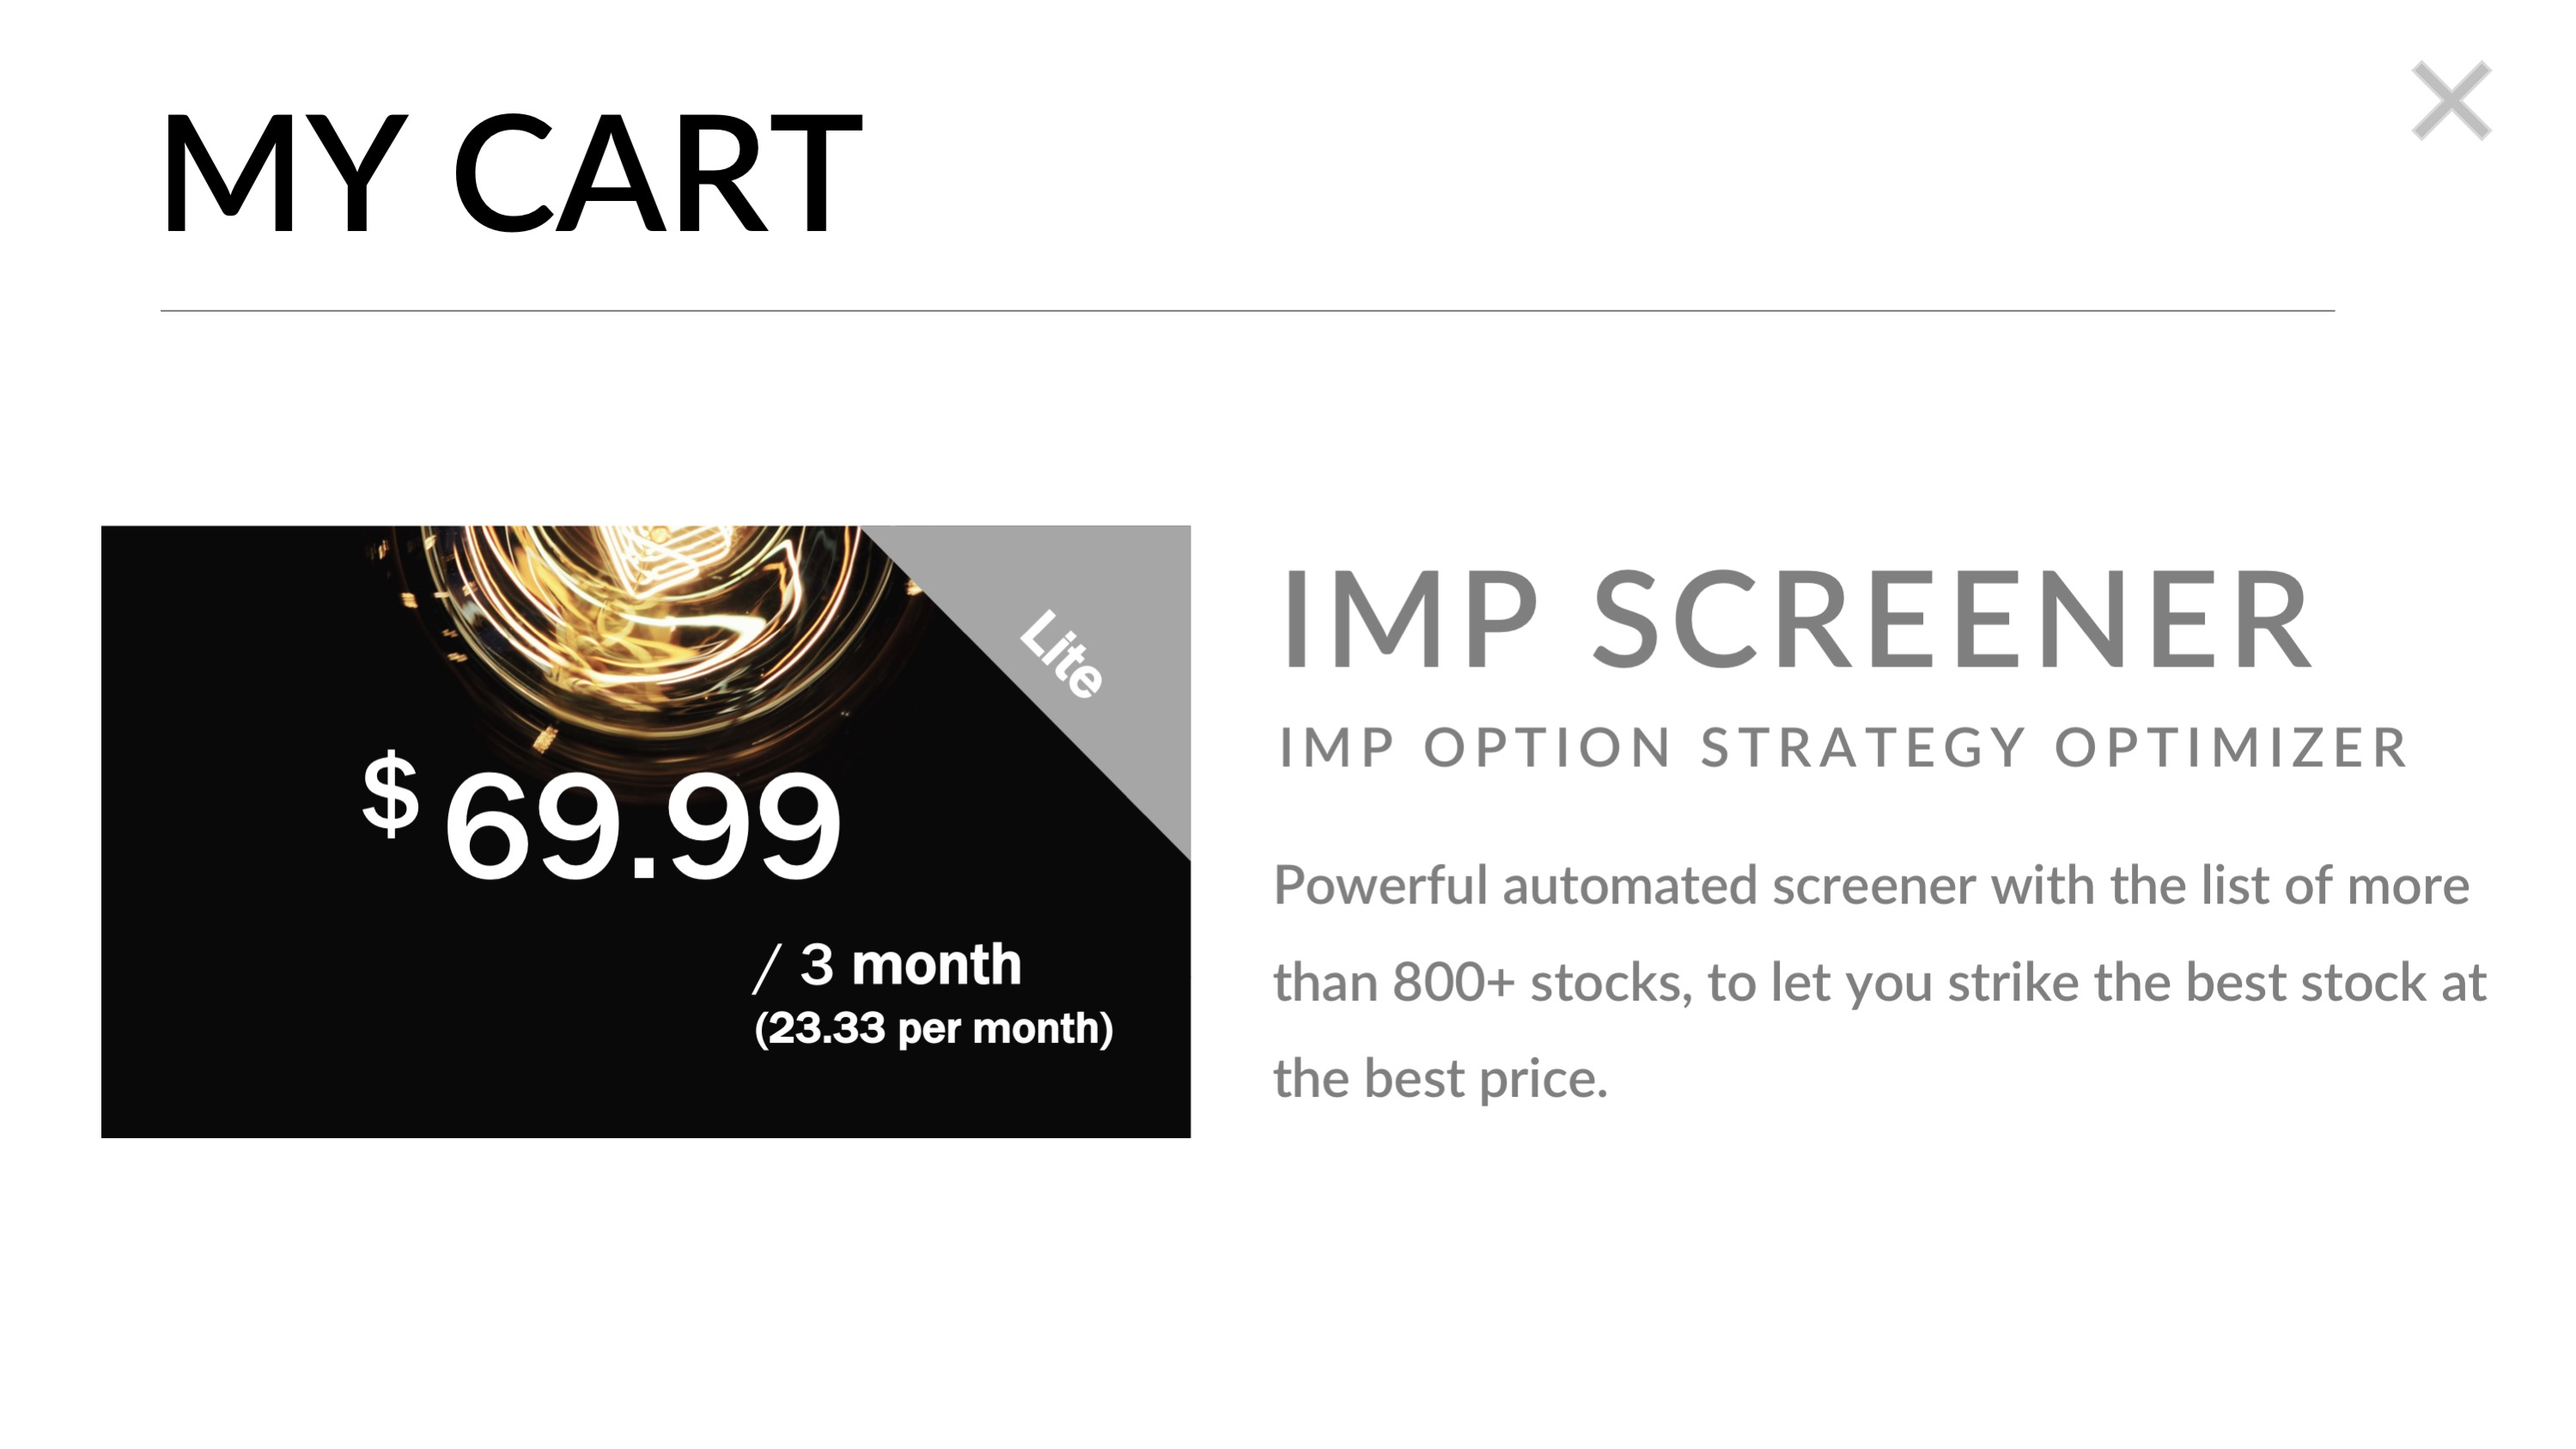
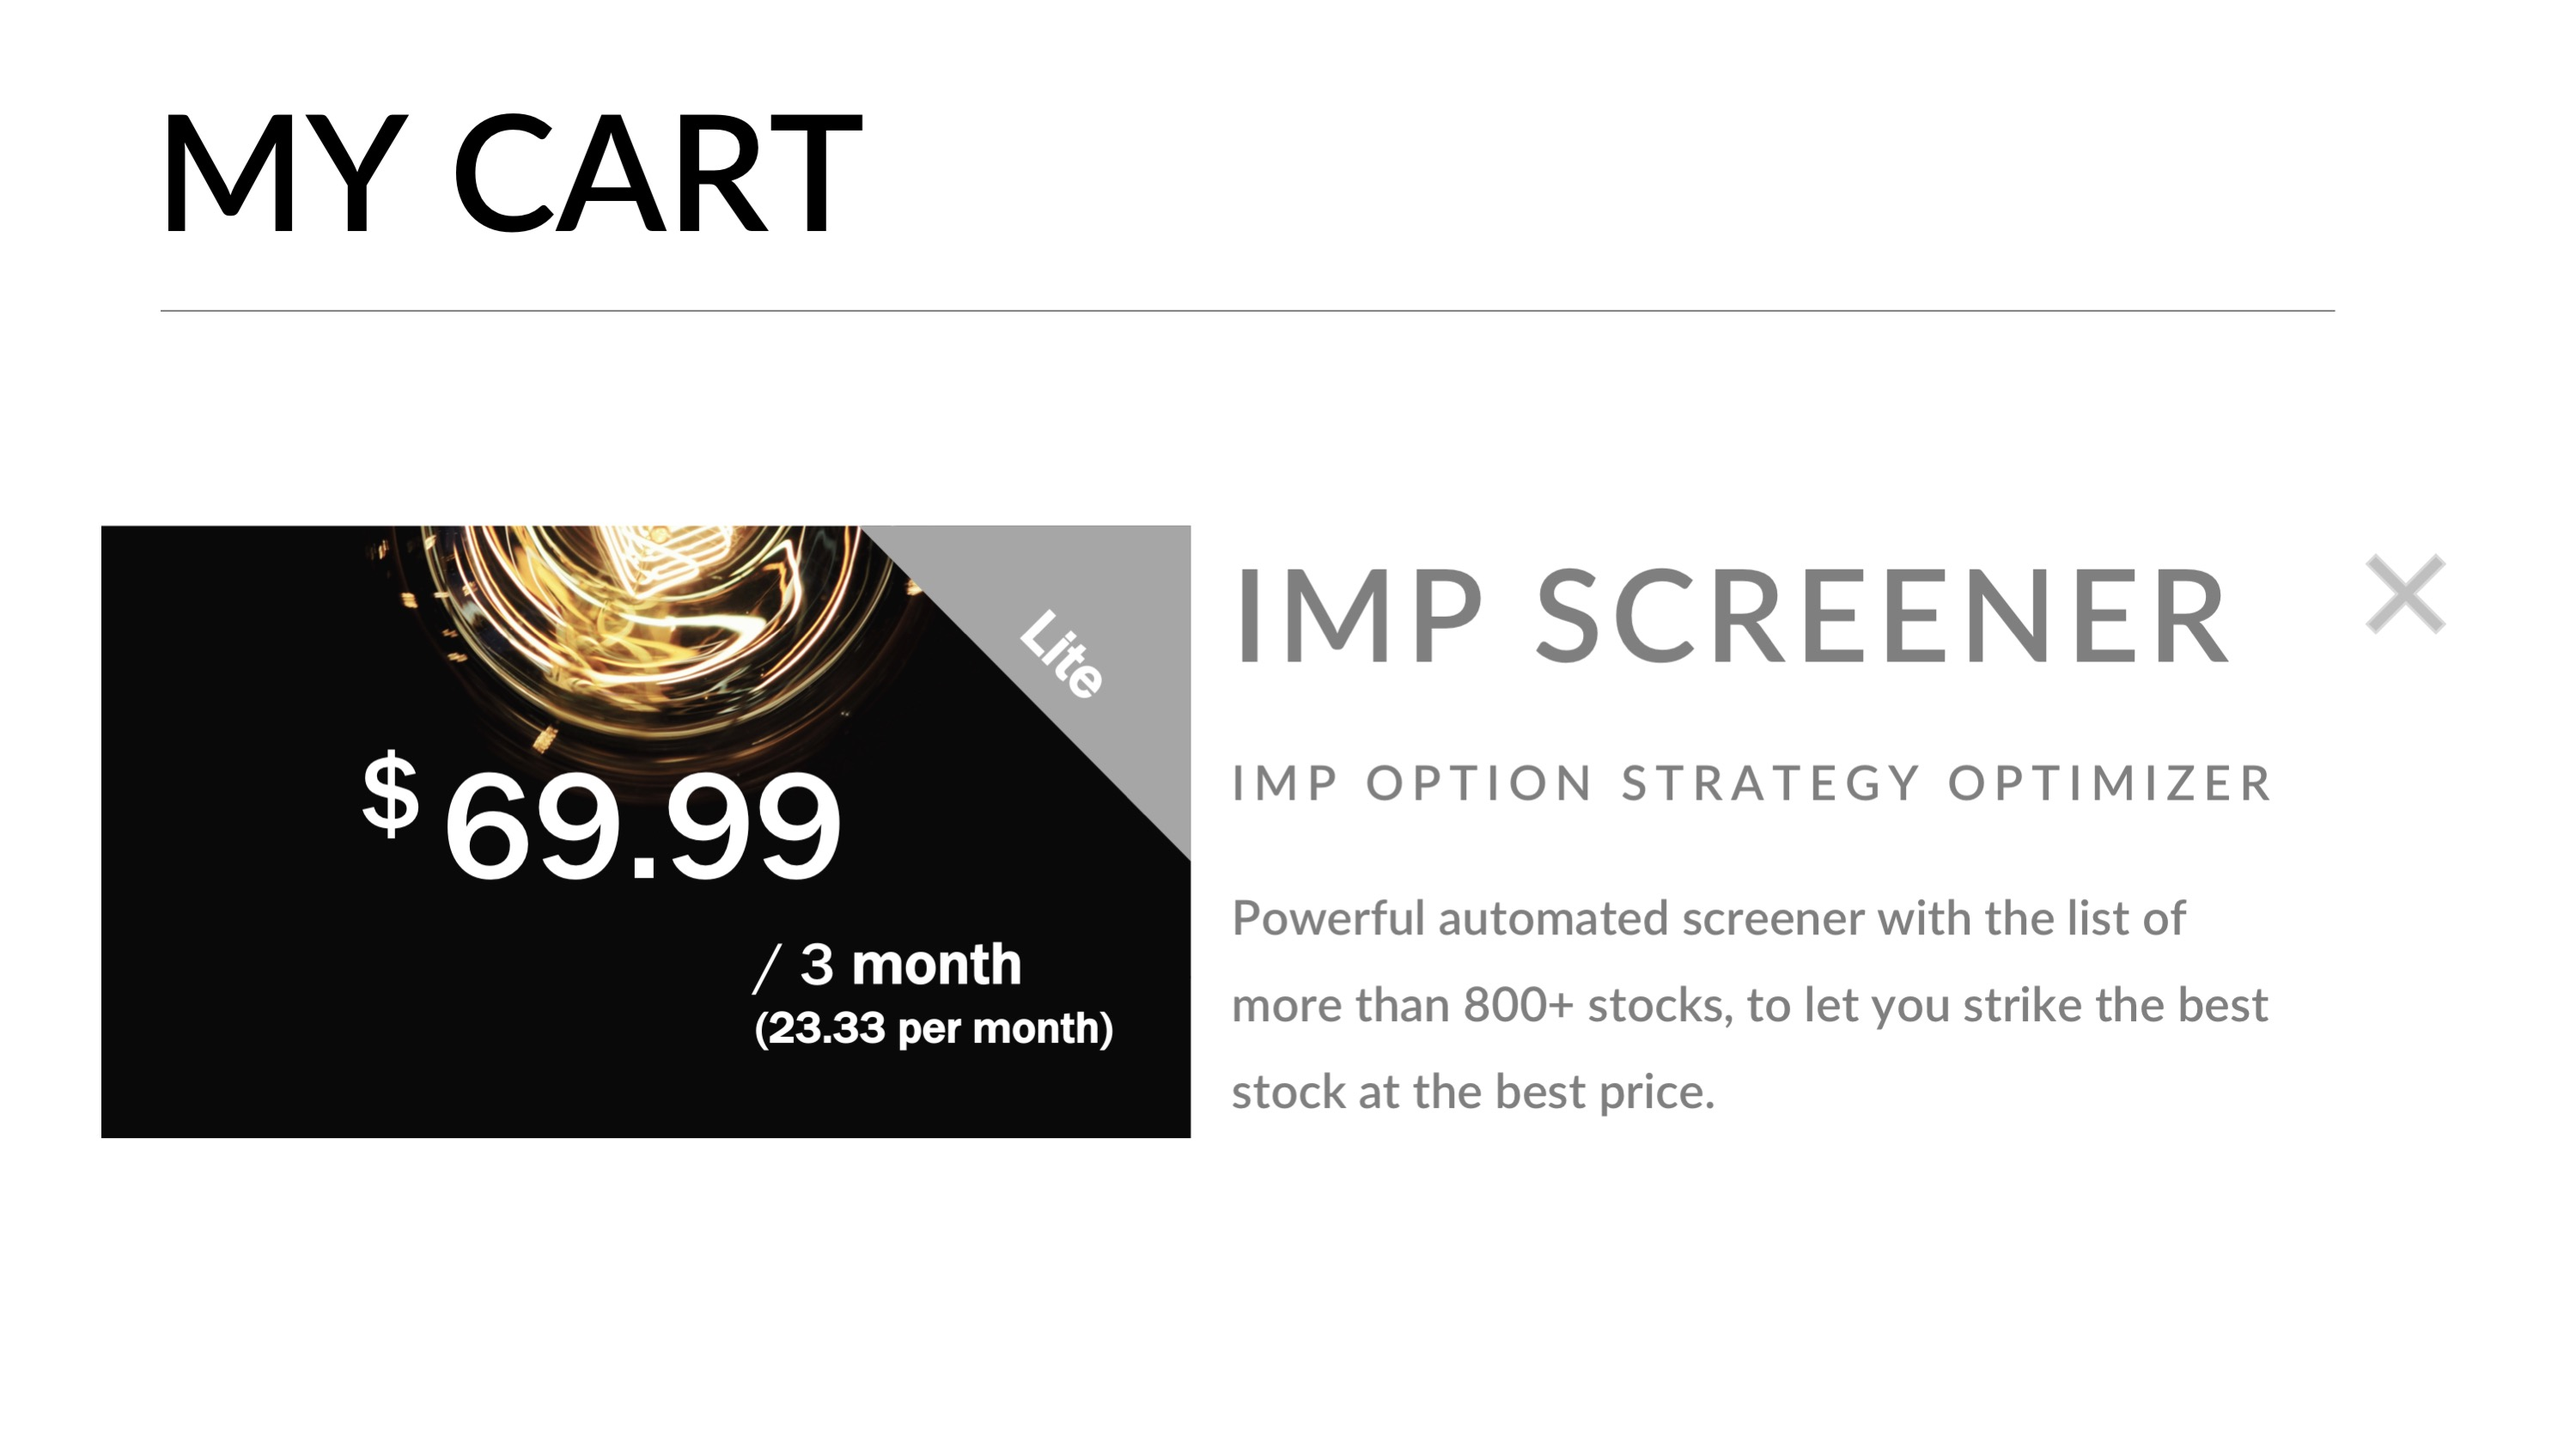
y

diff --git a/cart.html b/cart.html
@@ -38,8 +38,6 @@ testimonials:
               <img src= "images/mycartproduct.jpg" />
             </a>
           <div class='content'>
-            <p class='date'>Quarterly Subscription</p>
-            <h4><a href="#">Lite</a></h4>
           </div>
         </div>
     </div>
